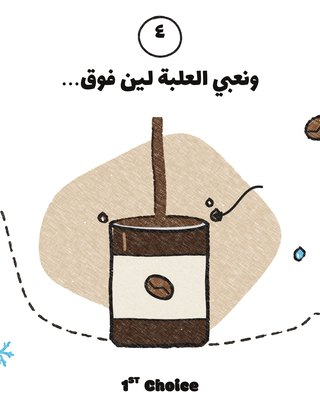
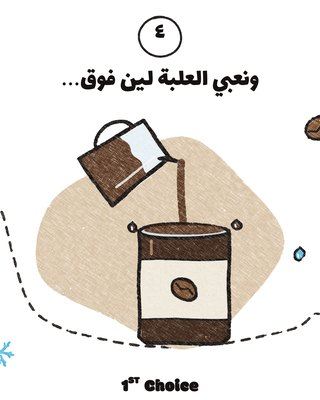
2.42.0: explainer drawings fixed (fridge door, hourglass, pouring vessels) + when / flavours / spot-the-difference designs
Claude-Session: https://claude.ai/code/session_01Gy5UJoUhsSzgMnaLbNjirq

diff --git a/brands/1stchoice/packs/dec26/pack.js b/brands/1stchoice/packs/dec26/pack.js
@@ -43,10 +43,10 @@ Studio.registerPack({
     {"id": "dec26-draw-hot", "label": "Drawing · hot coffee + ice", "file": "packs/dec26/assets/draw-hot.webp", "prev": "packs/dec26/prev/draw-hot.webp", "group": "Cold brew explainer", "noFlip": true, "hidden": true},
     {"id": "dec26-arrow-curve", "label": "Crayon arrow (curve)", "file": "packs/dec26/assets/arrow-curve.webp", "prev": "packs/dec26/prev/arrow-curve.webp", "group": "Cold brew explainer", "noFlip": false},
     {"id": "dec26-arrow-swoop", "label": "Crayon arrow (swoop)", "file": "packs/dec26/assets/arrow-swoop.webp", "prev": "packs/dec26/prev/arrow-swoop.webp", "group": "Cold brew explainer", "noFlip": false},
-    {"id": "dec26-d2-pour", "label": "Drawing · coffee + cold water into the jar", "file": "packs/dec26/assets/d2-pour.webp", "prev": "packs/dec26/prev/d2-pour.webp", "group": "Cold brew explainer", "noFlip": true},
-    {"id": "dec26-d2-fridge", "label": "Drawing · fridge with jar, cans and clock", "file": "packs/dec26/assets/d2-fridge.webp", "prev": "packs/dec26/prev/d2-fridge.webp", "group": "Cold brew explainer", "noFlip": true},
+    {"id": "dec26-d2-pour", "label": "Drawing · coffee + cold water into the jar", "file": "packs/dec26/assets/d2-pour.webp", "prev": "packs/dec26/prev/d2-pour.webp", "group": "Cold brew explainer", "noFlip": true, "hidden": true},
+    {"id": "dec26-d2-fridge", "label": "Drawing · fridge with jar, cans and clock", "file": "packs/dec26/assets/d2-fridge.webp", "prev": "packs/dec26/prev/d2-fridge.webp", "group": "Cold brew explainer", "noFlip": true, "hidden": true},
     {"id": "dec26-d2-filter", "label": "Drawing · two felt filters", "file": "packs/dec26/assets/d2-filter.webp", "prev": "packs/dec26/prev/d2-filter.webp", "group": "Cold brew explainer", "noFlip": true},
-    {"id": "dec26-d2-can", "label": "Drawing · can filled to the top", "file": "packs/dec26/assets/d2-can.webp", "prev": "packs/dec26/prev/d2-can.webp", "group": "Cold brew explainer", "noFlip": true},
+    {"id": "dec26-d2-can", "label": "Drawing · can filled to the top", "file": "packs/dec26/assets/d2-can.webp", "prev": "packs/dec26/prev/d2-can.webp", "group": "Cold brew explainer", "noFlip": true, "hidden": true},
     {"id": "dec26-d2-cold", "label": "Drawing · cold brew jar", "file": "packs/dec26/assets/d2-cold.webp", "prev": "packs/dec26/prev/d2-cold.webp", "group": "Cold brew explainer", "noFlip": true},
     {"id": "dec26-d2-hot", "label": "Drawing · hot coffee + ice", "file": "packs/dec26/assets/d2-hot.webp", "prev": "packs/dec26/prev/d2-hot.webp", "group": "Cold brew explainer", "noFlip": true},
     {"id": "dec26-d2-shop", "label": "Drawing · shop", "file": "packs/dec26/assets/d2-shop.webp", "prev": "packs/dec26/prev/d2-shop.webp", "group": "Cold brew explainer", "noFlip": true},
@@ -67,7 +67,18 @@ Studio.registerPack({
     {"id": "dec26-arrow-left", "label": "Crayon arrow (left)", "file": "packs/dec26/assets/arrow-left.webp", "prev": "packs/dec26/prev/arrow-left.webp", "group": "Cold brew explainer", "noFlip": true},
     {"id": "dec26-arrow-swoop-l", "label": "Crayon arrow (swoop left)", "file": "packs/dec26/assets/arrow-swoop-l.webp", "prev": "packs/dec26/prev/arrow-swoop-l.webp", "group": "Cold brew explainer", "noFlip": true},
     {"id": "dec26-arrow-up", "label": "Crayon arrow (up right)", "file": "packs/dec26/assets/arrow-up.webp", "prev": "packs/dec26/prev/arrow-up.webp", "group": "Cold brew explainer", "noFlip": true},
-    {"id": "dec26-arrow-up-l", "label": "Crayon arrow (up left)", "file": "packs/dec26/assets/arrow-up-l.webp", "prev": "packs/dec26/prev/arrow-up-l.webp", "group": "Cold brew explainer", "noFlip": true}
+    {"id": "dec26-arrow-up-l", "label": "Crayon arrow (up left)", "file": "packs/dec26/assets/arrow-up-l.webp", "prev": "packs/dec26/prev/arrow-up-l.webp", "group": "Cold brew explainer", "noFlip": true},
+    {"id": "dec26-d3-pour", "label": "Drawing · coffee bag + water pitcher pouring into the jar", "file": "packs/dec26/assets/d3-pour.webp", "prev": "packs/dec26/prev/d3-pour.webp", "group": "Cold brew explainer", "noFlip": true},
+    {"id": "dec26-d3-fridge", "label": "Drawing · fridge (open door)", "file": "packs/dec26/assets/d3-fridge.webp", "prev": "packs/dec26/prev/d3-fridge.webp", "group": "Cold brew explainer", "noFlip": true},
+    {"id": "dec26-d3-hourglass", "label": "Drawing · hourglass", "file": "packs/dec26/assets/d3-hourglass.webp", "prev": "packs/dec26/prev/d3-hourglass.webp", "group": "Cold brew explainer", "noFlip": true},
+    {"id": "dec26-d3-can", "label": "Drawing · carafe filling the can", "file": "packs/dec26/assets/d3-can.webp", "prev": "packs/dec26/prev/d3-can.webp", "group": "Cold brew explainer", "noFlip": true},
+    {"id": "dec26-d3-sunrise", "label": "Drawing · sunrise", "file": "packs/dec26/assets/d3-sunrise.webp", "prev": "packs/dec26/prev/d3-sunrise.webp", "group": "Cold brew explainer", "noFlip": true},
+    {"id": "dec26-d3-books", "label": "Drawing · books + can", "file": "packs/dec26/assets/d3-books.webp", "prev": "packs/dec26/prev/d3-books.webp", "group": "Cold brew explainer", "noFlip": true},
+    {"id": "dec26-d3-laptop", "label": "Drawing · laptop + can", "file": "packs/dec26/assets/d3-laptop.webp", "prev": "packs/dec26/prev/d3-laptop.webp", "group": "Cold brew explainer", "noFlip": true},
+    {"id": "dec26-d3-beach", "label": "Drawing · beach", "file": "packs/dec26/assets/d3-beach.webp", "prev": "packs/dec26/prev/d3-beach.webp", "group": "Cold brew explainer", "noFlip": true},
+    {"id": "dec26-d3-spot-a", "label": "Spot the difference · scene 1", "file": "packs/dec26/assets/d3-spot-a.webp", "prev": "packs/dec26/prev/d3-spot-a.webp", "group": "Cold brew explainer", "noFlip": true},
+    {"id": "dec26-d3-spot-b", "label": "Spot the difference · scene 2", "file": "packs/dec26/assets/d3-spot-b.webp", "prev": "packs/dec26/prev/d3-spot-b.webp", "group": "Cold brew explainer", "noFlip": true},
+    {"id": "dec26-d3-spot-circles", "label": "Spot the difference · answer circles", "file": "packs/dec26/assets/d3-spot-circles.webp", "prev": "packs/dec26/prev/d3-spot-circles.webp", "group": "Cold brew explainer", "noFlip": true}
   ],
   templates:[],
   reels:[],

diff --git a/sw.js b/sw.js
@@ -5,7 +5,7 @@
    - Supabase (sign-in, saved designs, team photos) is NEVER cached: those requests go straight to the network.
    - Share target (Android, installed app): photos shared from the gallery arrive as a POST to ./share-target; they wait in
      IndexedDB ('studio' › 'files' › 'studio:shared', the same store studio.js uses) and the hub opens a "pick a tool" sheet. */
-const VERSION='studio-v2-41-0';   // Studio 2.41.0
+const VERSION='studio-v2-42-0';   // Studio 2.42.0
 const SHELL=[
   './','index.html','manifest.webmanifest','whats-new.html','assets/whatsnew.css','assets/whatsnew.js','studio-notes/changelog.md',
   'assets/studio.css','assets/studio.js','assets/search.css','assets/search.js','assets/back.js','assets/templates.css','assets/templates.js','assets/batch.js','assets/stickers.js','assets/welcome.css','assets/welcome.js','assets/cloud.js','assets/config.js','assets/vendor/supabase.js',

diff --git a/assets/studio.js b/assets/studio.js
@@ -13,7 +13,7 @@ const PHOTO_MAX_PX=12e6; // a photo is kept at full quality up to 12 megapixels 
 const LS_OK=(()=>{ try{ return 'letterSpacing' in document.createElement('canvas').getContext('2d'); }catch(_){ return false; } })();
 const PIN=new Path2D("M128 16a88.1 88.1 0 0 0-88 88c0 75.3 80 132.17 83.41 134.55a8 8 0 0 0 9.18 0C136 236.17 216 179.3 216 104a88.1 88.1 0 0 0-88-88Zm0 56a32 32 0 1 1-32 32a32 32 0 0 1 32-32Z");
 /* Studio's version: semantic (fix = 0.1.1, feature = 0.2.0). The What's New page (whats-new.html) shows the notes from studio-notes/changelog.md. */
-const VERSION='2.41.0';
+const VERSION='2.42.0';
 const ROOT=(document.currentScript&&document.currentScript.src)?document.currentScript.src.replace(/assets\/studio\.js.*$/,''):'../';
 const BRANDS={};
 /* installable app: the service worker caches the app shell (never Supabase calls) */

diff --git a/studio-notes/changelog.md b/studio-notes/changelog.md
@@ -13,6 +13,17 @@ The What's New page in Studio (`whats-new.html`) reads this file. Keep the forma
 
 How the page shows it, with no extra work: the newest version is the hero card at the top (version, date, its lead line as the summary, its changes grouped New / Improved / Fixed with an icon heading; if there is no lead line, the card titles are joined instead). So give every version a short plain lead line right under its `##` heading. Older versions are one row each (version, date, one-line summary, chips such as "3 new · 2 fixed"); one tap opens it and shows every change with its note and screenshots at once (no nested sections). One filter row (All, New, Improved, Fixed) filters every version. `whats-new.html#v-2.3.0` opens that version.
 
+## 2.42.0 · 28 Nov 2026
+Explainer drawings fixed, and three more hand-drawn designs.
+
+### Better explainer drawings
+type: fix
+The fridge is redrawn with a closed freezer, an open fridge with shelves and a real door with door shelves, and the clock is gone from the door: an hourglass now stands beside the fridge. Step 1 now shows a coffee bag and a water pitcher pouring into the jar, and step 4 shows a carafe filling the can. The carousel and the step-by-step story use the new drawings. The arrows on "how your can reaches you" are bigger.
+
+### More hand-drawn designs
+type: feature
+In Saved → December · hoodie cat: when do you drink it (morning, 8 am lecture, work, weekend), Classic or Passion fruit, and a spot-the-5-differences carousel with its answer slide, each with a story. Add asset → Cold brew explainer has the new drawings (sunrise, books, laptop, beach, hourglass, the kitchen scenes).
+
 ## 2.41.0 · 28 Nov 2026
 The cold brew explainer, redrawn, plus three new hand-drawn explainers.
 
